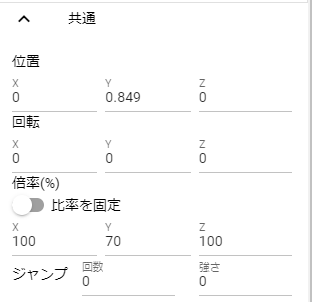
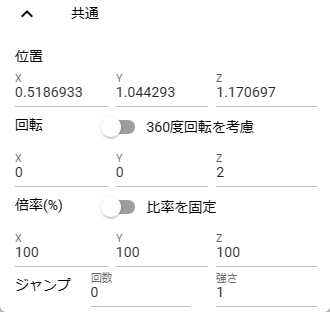
2023.05.11夜時点
For ver 2.1.1

diff --git a/docs/source/conf.py b/docs/source/conf.py
@@ -22,7 +22,7 @@ copyright = '2022, ISHII Eiju'
 author = 'ISHII Eiju'
 
 # The full version, including alpha/beta/rc tags
-release = '2.1.0'
+release = '2.1.1'
 
 
 # -- General configuration ---------------------------------------------------

diff --git a/docs/source/man2/operation_initial.rst b/docs/source/man2/operation_initial.rst
@@ -243,11 +243,29 @@ OtherObjectの場合
 
 |
 
+    .. index:: 360度回転（3Dオブジェクトの操作）
 
+    360度回転を考慮
+        ``360度回転を考慮`` をONにするとその回転角度になる際に可能な限り一回転しようとします。たとえば、Y軸を次のようにするとします。
 
-    .. index:: 比率を固定（3Dオブジェクトの倍率）
+        .. csv-table::
+            :header-rows: 1
+            :align: center
+
+            frame, Y軸の回転角度
+            1, 0
+            10, 359
+        
+        　このオプションをOFFにしてキーフレーム登録した場合、0度から時計回り・反時計回りを考慮して角度を即座に切り替えるのみです。ONの場合、2～9フレームの間は例えば 10..30..50..185..200.. というように一回転しようと試みます。
+
+        * ただし、本アプリの回転の内部仕様上、 0から360度は回転できません。一旦359度まで回転し、その後359から360度に回転するよう次のフレームでキーフレーム登録してください。その際、 ``360度回転を考慮`` をOFFにして登録する必要があります。
+
+        .. warning::
+            このオプションはモーションデータとしては保持されません。あくまでもキーフレーム登録時のオプションです。オブジェクトの選択を切り替えたりするとこのトグルはOFFに戻ります。
+
+    .. index:: 比率を固定（3Dオブジェクトの操作）
     
-    倍率について
+    比率を固定
         　倍率もX, Y, Zを指定しますが、比率を固定することもできます。 ``比率を固定`` をONにすると入力欄が1つになります。この状態で入力すると現在の比率を保ったまま大きさを変更することができます。
 
     ジャンプ・揺れ

diff --git a/docs/source/man1/menu_syseffect.rst b/docs/source/man1/menu_syseffect.rst
@@ -4,15 +4,21 @@
 システムエフェクトタブ
 ####################################
 
-.. image:: ../img/screen_ribbon_syseff.png
-    :align: center
+.. |syseff1| image:: ../img/screen_ribbon_syseff1.png
+.. |syseff2| image:: ../img/screen_ribbon_syseff2.png
 
+.. csv-table::
+
+    |syseff1|
+    |syseff2|
 | 
 
 　システムエフェクト（画面の効果）に関する機能のボタンがあります。
 
 　システムエフェクトとは、Unityの用語でいうところのPost-processingです。UnityのPost-processingのすべてが使えるわけではありません。
 
+:ページ番号:
+    各エフェクトが1ページに付き3～4個表示されます。
 
 :On:
     各エフェクトを有効・無効切り替えます。使用可能なエフェクトは次のとおりです。
@@ -22,5 +28,7 @@
     Bloom、Chromatic Abberation、Color grading、Depth of field、Grain、Vignette、Motion blur
 
 .. hint::
-    ``ver 2.1.0`` よりシステムエフェクトのキーフレームへの登録は他のオブジェクトと同様にキーフレームの登録ウィンドウから行えるように統一しました。
-    **ただし、システムエフェクトタブを開いている必要があります。**
+    ``ver 2.1.0`` より他のオブジェクトと同様に右クリックして表示されるキーフレームの登録ウィンドウから行えるようにもなりました。
+    **ただし、システムエフェクトタブを開いている間はシステムエフェクトしか登録できません。**
+
+    基本的にはタブ内にある ``キーフレーム登録`` ボタンからするほうがわかりやすく便利ですが、うまく使い分けてください。

diff --git a/docs/source/man2/operation_audio.rst b/docs/source/man2/operation_audio.rst
@@ -42,15 +42,15 @@ Audio
     即座に再生されます。こちらの操作はキーフレームには登録されません。, 「再生」や「停止」を選択後にキーフレームに登録します。
 
 
-4. オーディオをアニメーションプロジェクトに登録する場合は同じタブ内にある「キーフレーム登録」ボタンを使用します。
+4. オーディオをアニメーションプロジェクトに登録するにはタブ内の ``キーフレーム登録`` ボタンか、このタブ内で右クリックし、「キーフレーム登録」ボタンを使用します。
 
-.. image:: ../img/operation_audio_5.png
+.. image:: ../img/screen_ribbon_animation_keyframe2.png
     :align: center
 
+|
 
 .. note::
-    ※このタブ内の「キーフレーム登録」はオーディオ専用です。アニメーションタブにある同ボタンは現在選択中のオブジェクト・ロール（タイムライン）を対象としますが、このタブ内の同ボタンはオブジェクトなど何を選択していても、必ずオーディオだけを対象にしますので、お間違えないようご注意ください。
-
+    ※このタブ内で右クリックした場合に表示される「キーフレーム登録」はオーディオ専用です。どのオブジェクトを選択していても、必ずオーディオだけを対象にしますので、お間違えないようご注意ください。
 
 .. warning::
     ※オーディオファイルは権利関係が特に厳しいと思われますので、第三者の音楽ファイルを使用する場合は必ず権利関係を守って使用してください。

diff --git a/docs/source/man2/operation_syseff.rst b/docs/source/man2/operation_syseff.rst
@@ -9,8 +9,13 @@ SystemEffect
 
 
 
-.. image:: ../img/screen_ribbon_syseff.png
-    :align: center
+.. |syseff1| image:: ../img/screen_ribbon_syseff1.png
+.. |syseff2| image:: ../img/screen_ribbon_syseff2.png
+
+.. csv-table::
+
+    |syseff1|
+    |syseff2|
 
 |
 
@@ -45,11 +50,13 @@ SystemEffect
 
 **アニメーションプロジェクトへの登録方法**
 
-　システムエフェクトをアニメーションプロジェクトに登録する場合は同じタブ内にある「キーフレーム登録」ボタンを使用します。
+　システムエフェクトをアニメーションプロジェクトに登録するには、タブ内の ``キーフレーム登録`` ボタンか、 ``システムエフェクト`` タブ内で右クリック [1]_ して ``キーフレーム登録`` ボタンをクリックします。
 
-.. image:: ../img/operation_syseff_2.png
+.. image:: ../img/screen_ribbon_animation_keyframe2.png
     :align: center
 
 |
 
-※このタブ内の「キーフレーム登録」はシステムエフェクト専用です。このタブ内の同ボタンは、オブジェクトなどで何を選択していても、必ずシステムエフェクトだけを対象にしますので、お間違えないようご注意ください。
+※このタブ内で右クリックした場合に表示される「キーフレーム登録」はシステムエフェクト専用です。3Dオブジェクトをなにか選択していたとしても、 **必ずシステムエフェクトだけを対象** にしますので、お間違えないようご注意ください。
+
+.. [1] macOSの場合はControlキー + クリックまたは2点タップ

diff --git a/docs/source/man2/prop_common.rst b/docs/source/man2/prop_common.rst
@@ -6,7 +6,10 @@
 
 .. contents::
 
-.. index:: プロパティ（3Dモデル）
+.. index:: 
+    プロパティ（3Dモデル）
+    360度回転（3Dモデル）
+    比率を固定（3Dモデル）
 
 共通（3Dモデル）
 --------------------
@@ -21,12 +24,14 @@
 :位置:
     X座標、Y座標、Z座標をそれぞれ設定します。
 :回転:
-    X座標、Y座標、Z座標をそれぞれ設定します。
+    X座標、Y座標、Z座標をそれぞれ設定します。 ``360度回転を考慮`` をONにするとその回転角度になる際に可能な限り一回転しようとします。
 :倍率:
     全座標合わせた倍率を設定します。 ``比率を固定`` をONにするとX/Y/Z座標を固定して1つのみの入力で済ませることができます。
 
 .. note::
     倍率は、Stageの場合はX/Z座標のみです。それ以外の3Dモデル・オブジェクトはX/Y/Z座標です。
+
+.. index:: ジャンプ（共通プロパティ）
 
 ジャンプ（共通）
 ^^^^^^^^^^^^^^^^^^
@@ -39,6 +44,8 @@
     アニメーションプロジェクトにて、キーフレームの間隔があまりに短いと一瞬すぎてジャンプしていないように見えることがあります。
 
 |
+
+.. index:: 直線的な揺れ（共通プロパティ）
 
 直線的な揺れ（共通）
 ^^^^^^^^^^^^^^^^^^^^^^^^
@@ -63,6 +70,8 @@
     揺れた際の跳ね返りの範囲の上限を指定します。
 
 |
+
+.. index:: ランダムな揺れ（共通プロパティ）
 
 ランダムな揺れ（共通）
 ^^^^^^^^^^^^^^^^^^^^^^^^^^

diff --git a/docs/source/man2/prop_syseffect.rst b/docs/source/man2/prop_syseffect.rst
@@ -4,7 +4,13 @@
 SystemEffect
 ####################################
 
-.. image:: ../img/screen_ribbon_syseff.png
+.. |syseff1| image:: ../img/screen_ribbon_syseff1.png
+.. |syseff2| image:: ../img/screen_ribbon_syseff2.png
+
+.. csv-table::
+
+    |syseff1|
+    |syseff2|
 
 |
 
@@ -67,9 +73,11 @@ Color gradingのプロパティです。
 
 Depth Of Fieldのプロパティです。
 
+:被写体までの距離 (Focus Distance):
+    0.1～50の間で0.05刻みで指定します。Depth Of Fieldのフォーカスの直接的な距離となります。
 :絞り:
     0.1～32の間で0.1刻みで指定します。
-:焦点距離:
+:レンズの焦点距離 (Focal Length):
     1～50の間で指定します。
 
 |
@@ -101,7 +109,14 @@ Vignetteのプロパティです。
 
 :強さ:
     0～1の間で0.1刻みで指定します。
-
+:滑らかさ:
+    0.1～1の間で0.01刻みで指定します。Vignetteの効果のかかる縁にアンチエイリアスをかけるかくっきりさせるかを調整します。
+:丸み:
+    0～1の間で0.01刻みで指定します。Vignetteの効果を円形から四角形に調整します。
+:center X:
+    -3～5の間で0.01刻みで指定します。Vignetteの効果の中心位置のX座標を調整します。
+:center Y:
+    -3～5の間で0.01刻みで指定します。Vignetteの効果の中心位置のY座標を調整します。
 
 |
 |

diff --git a/docs/source/man1/menu_audio.rst b/docs/source/man1/menu_audio.rst
@@ -39,8 +39,10 @@
     選択中のオーディオのピッチを調整します。
 
 .. hint::
-    ``ver 2.1.0`` よりオーディオのキーフレームへの登録は他のオブジェクトと同様にキーフレームの登録ウィンドウから行えるように統一しました。
-    **ただし、オーディオタブを開いている必要があります。**
+    ``ver 2.1.0`` より他のオブジェクトと同様に右クリックして表示されるキーフレームの登録ウィンドウから行えるようにもなりました。
+    **ただし、オーディオタブを開いている間はオーディオしか登録できません。**
+
+    基本的にはタブ内にある ``キーフレーム登録`` ボタンからするほうがわかりやすく便利ですが、うまく使い分けてください。
 
 .. note::
     ※ここでの再生・停止操作はアニメーションプロジェクトには反映されません。あくまでもプレビューです。

diff --git a/docs/source/man4/animation_register.rst b/docs/source/man4/animation_register.rst
@@ -127,7 +127,7 @@
 
 |
 
-4. ``キーフレームの登録ウィンドウ`` が表示されます。
+1. ``キーフレームの登録ウィンドウ`` が表示されます。
 
 .. |keyframe1| image:: ../img/screen_ribbon_animation_keyframe1.png
 .. |keyframe2| image:: ../img/screen_ribbon_animation_keyframe2.png
@@ -141,6 +141,10 @@
     VRM, VRM以外
     |keyframe1|, |keyframe2|
     IKParentを含めた全てのIKマーカー, IKParentのみ
+
+.. hint::
+    リボンバーの中ならどこで右クリック（macOSの場合はControlキーを押しながらクリックまたは2点タップ）することで表示可能です。
+
 
 .. index:: キーフレームに登録する内容
 

diff --git a/docs/source/man1/menu_animation.rst b/docs/source/man1/menu_animation.rst
@@ -57,6 +57,7 @@
 :キーフレームを登録...:
     **ver 2.1.0以降** 
     キーフレームの登録ウィンドウを表示します。
+    表示されるウィンドウはリボンバーのタブ内ならどこで右クリックしても表示されます。
     
     
 :切り取り・コピー・貼付け:
